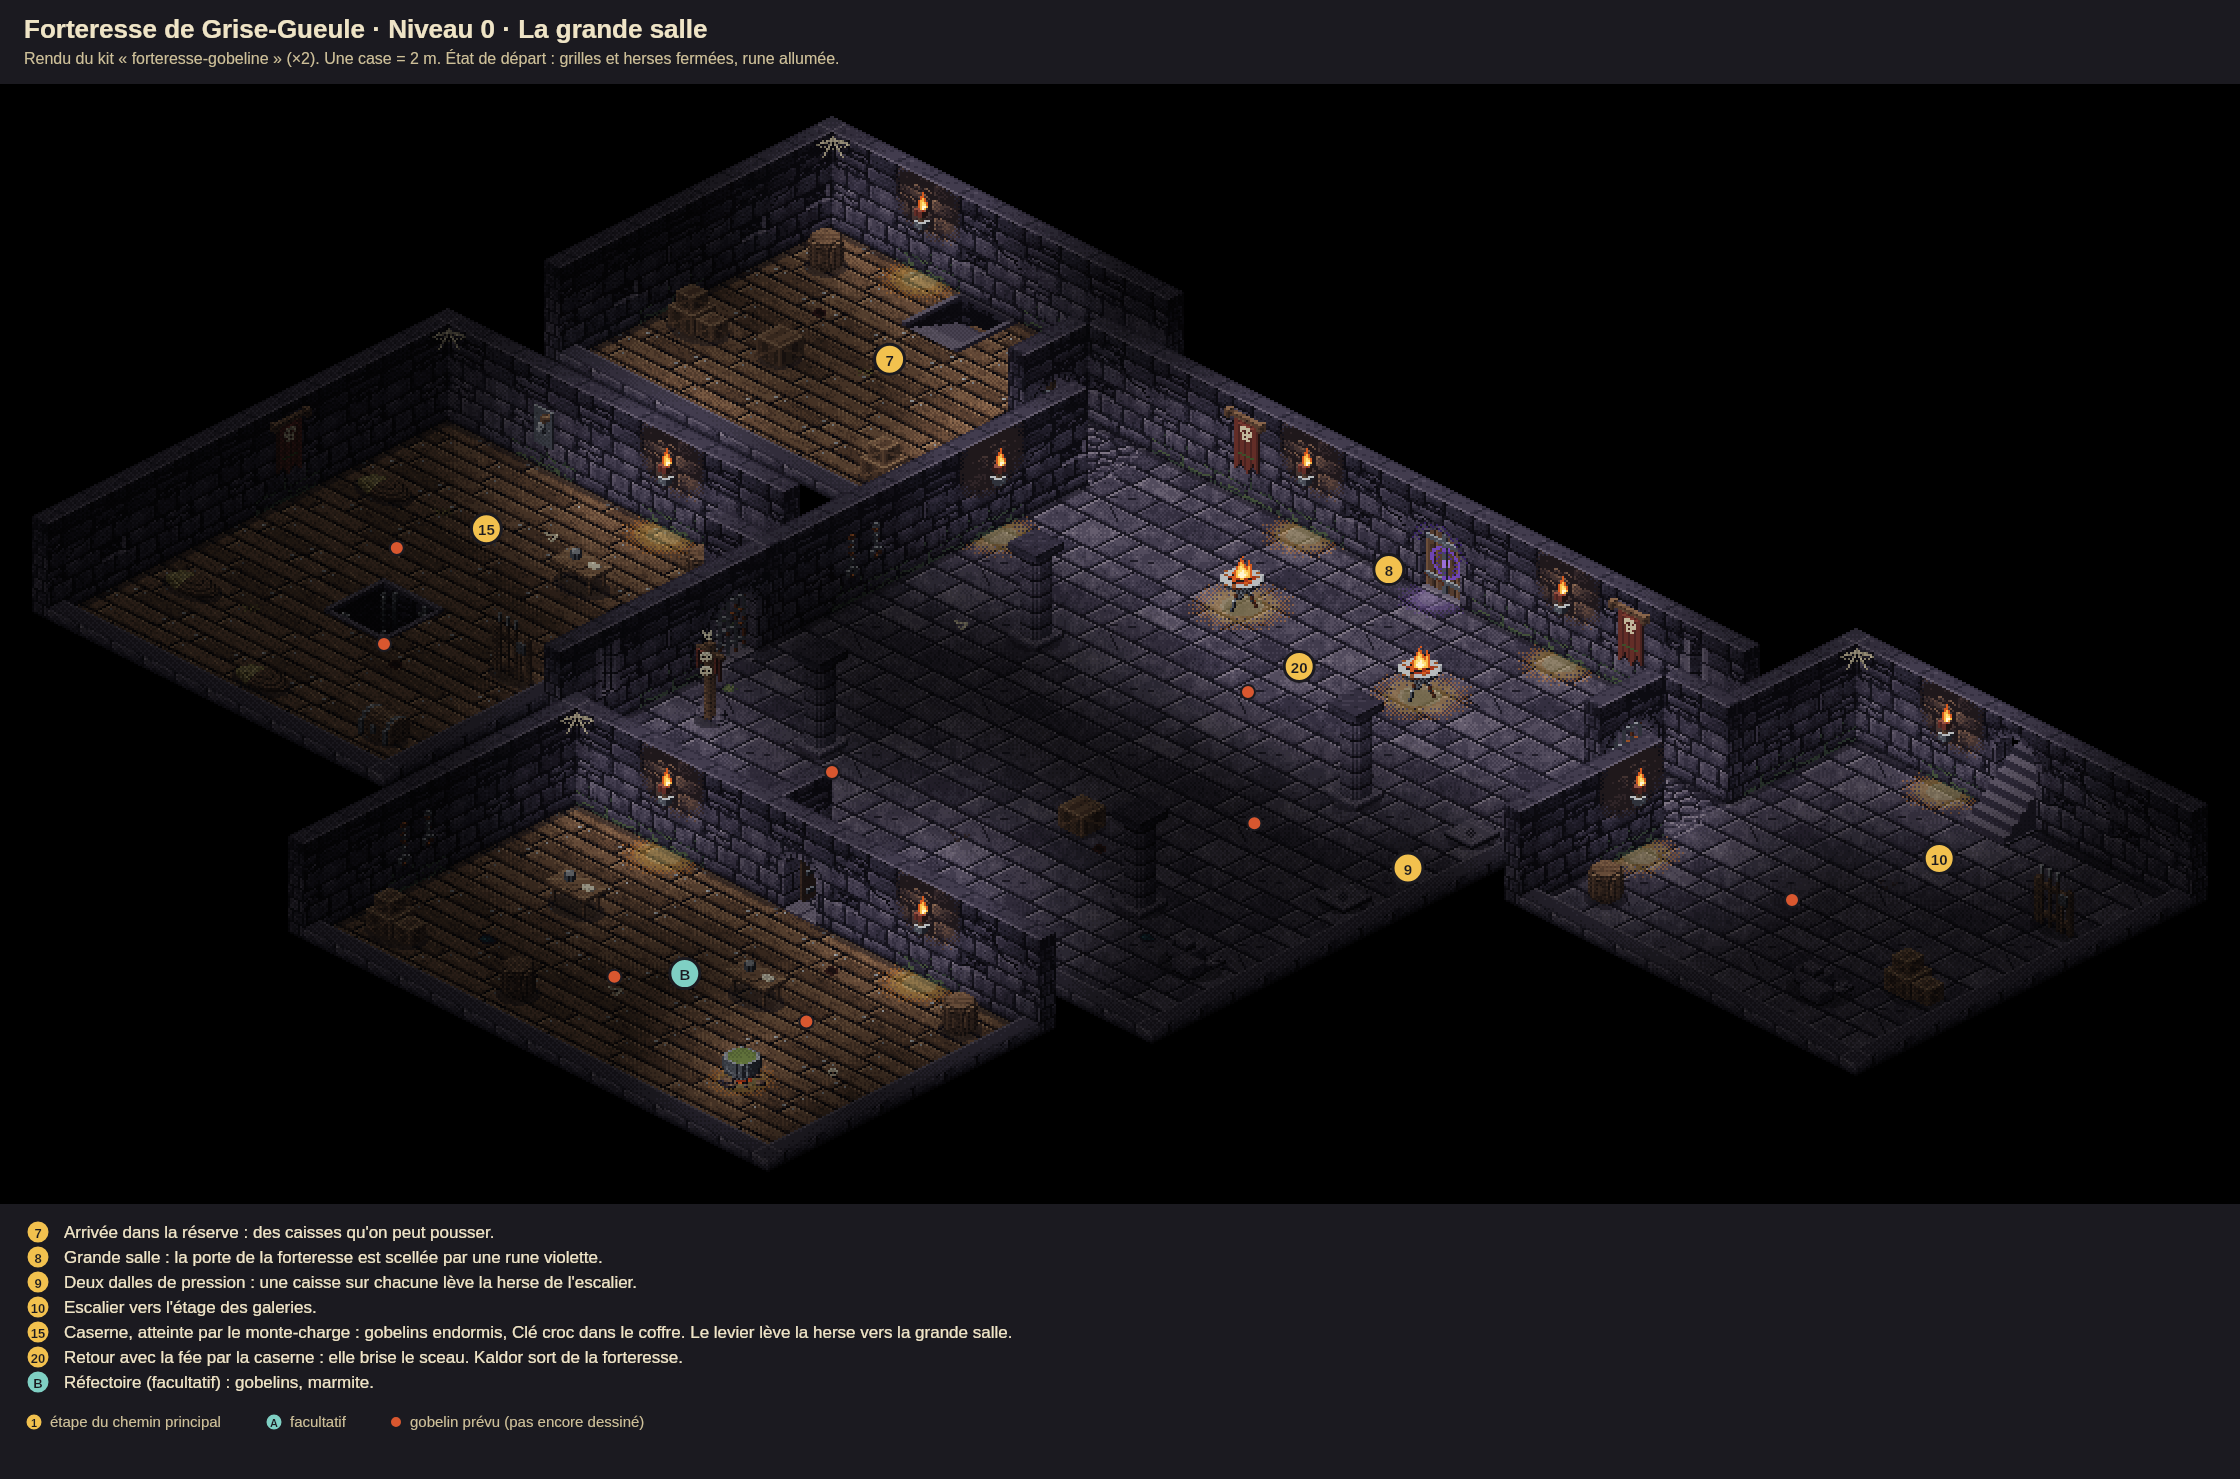
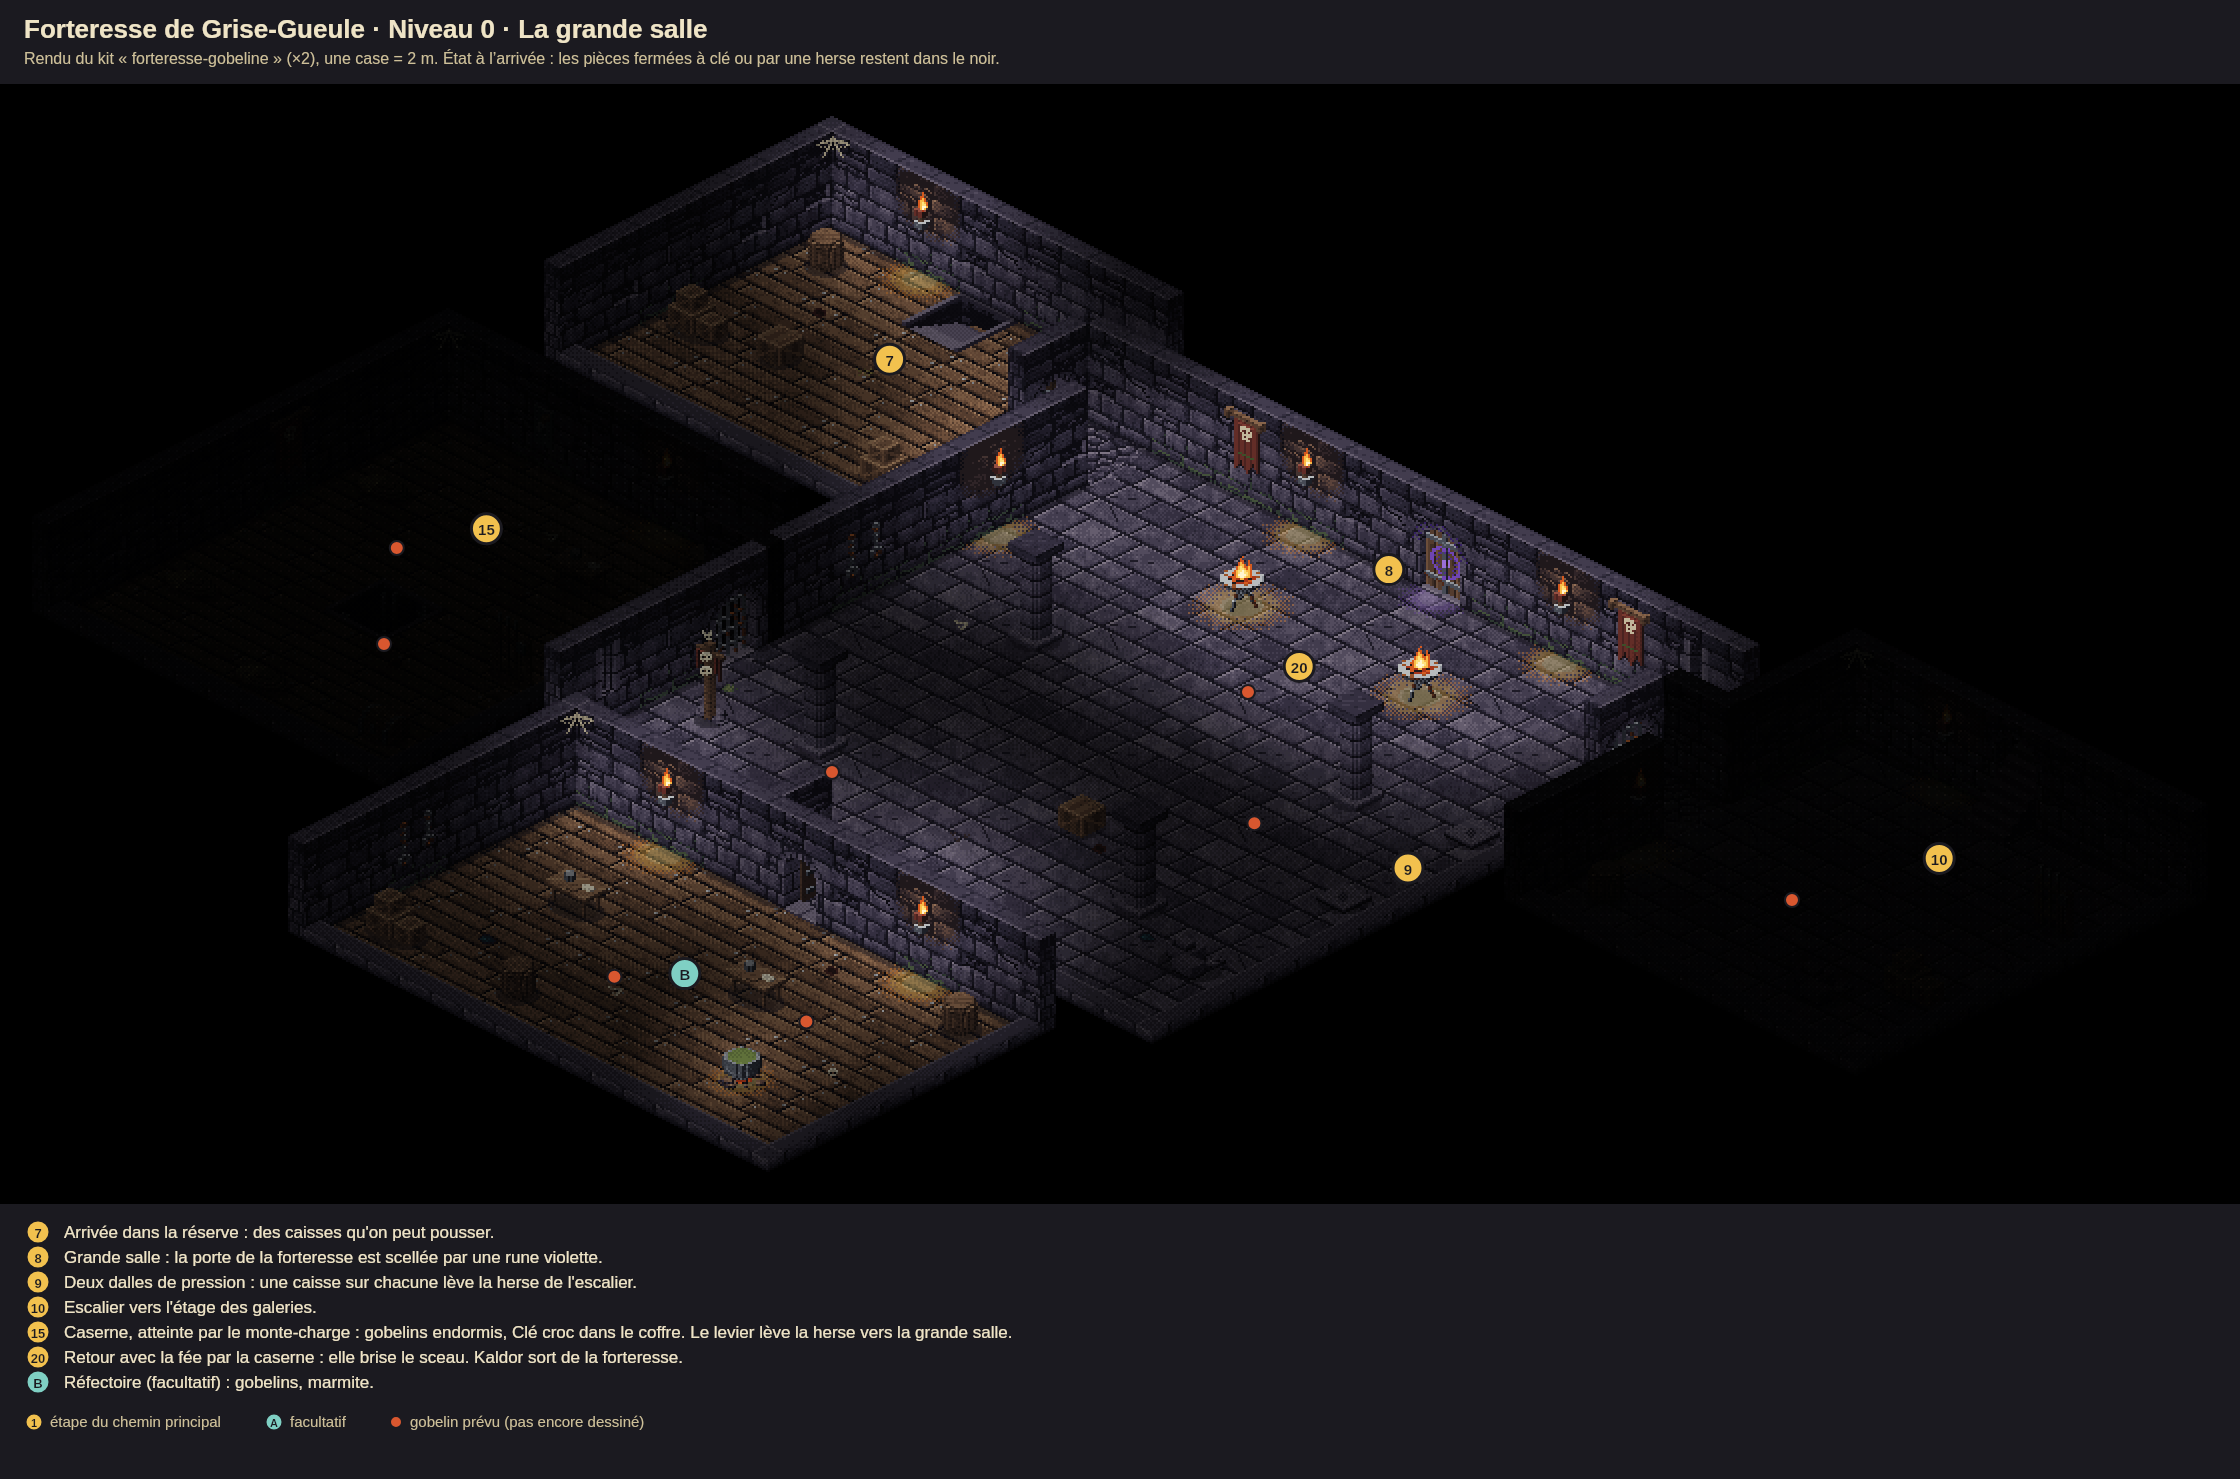
Keep locked dungeon rooms in the dark until they are opened
Cells of a floor group into rooms split by walls and closed openings
(locked doors, lowered portcullises, cell doors). Only the rooms where the
hero arrives are lit; the others are drawn at 14 % brightness, dithered,
and their torches light nothing, until a key, lever or pressure plate opens
them or the lift brings the hero in. A wall or door between a lit and a dark
room stays lit. Each mechanism now lists the edges it opens.

The floor plates show what the hero sees on arrival; the overview keeps
every room lit. A new test checks that arrival rooms are lit, that each
locked door hides a room, and that opening everything leaves only lift-only
rooms dark.

Claude-Session: https://claude.ai/code/session_018EeQxkf77jYwD1D6zZppH4

Changed region(s): [[0.6562, 0.4043, 0.9688, 0.7153], [0.0312, 0.2177, 0.375, 0.5287], [0.1562, 0.0311, 0.4375, 0.0622]]

diff --git a/art/environnement/donjons/LISEZMOI.md b/art/environnement/donjons/LISEZMOI.md
@@ -5,7 +5,19 @@ Un donjon est un intérieur complet, sur plusieurs étages, assemblé avec le ki
 - Données : `data/donjons/<id>.json` (plans, murs, objets, clés, mécanismes, repères, lieu dans le monde).
 - Planches : `donjons/<id>/`, refaites par `npm run donjon:environment`.
 - Code : `scripts/environment/donjon.cjs`. Les règles d'assemblage sont celles des intérieurs, dans `../LISEZMOI.md`, section « Intérieurs ».
-- Test : `tests/environment-donjons.test.cjs`. Il vérifie que chaque pièce existe dans le kit, que les clés ouvrent les bonnes portes, que les escaliers et le puits se répondent d'un étage à l'autre, qu'aucun objet ne bouche une ouverture, et que chaque case est accessible une fois les portes ouvertes.
+- Test : `tests/environment-donjons.test.cjs`. Il vérifie que chaque pièce existe dans le kit, que les clés ouvrent les bonnes portes, que les escaliers et le puits se répondent d'un étage à l'autre, qu'aucun objet ne bouche une ouverture, que chaque case est accessible une fois les portes ouvertes, et que les pièces fermées sont dans le noir au départ.
+
+## Pièces dans le noir
+
+Une pièce fermée par une porte verrouillée, une herse baissée ou une grille de cellule reste dans le noir tant qu'elle est fermée. On devine ses murs à 14 % de leur luminosité, en trame, mais pas son contenu. Quand un levier, une clé ou des dalles l'ouvrent, elle s'éclaire en une demi-seconde. Une pièce qu'on atteint par le monte-charge s'éclaire quand le héros y arrive.
+
+- Les pièces se calculent toutes seules : deux cases voisines font partie de la même pièce, sauf si un mur ou une ouverture fermée les sépare (`rooms()` dans `donjon.cjs`).
+- Au départ, seules les pièces d'arrivée sont visibles : celle du réveil, et celles du haut ou du bas d'un escalier.
+- Un mur ou une porte entre une pièce éclairée et une pièce dans le noir reste éclairé : on le voit depuis la pièce où l'on est.
+- Les torches d'une pièce dans le noir n'éclairent pas les pièces voisines.
+- Réglages dans le JSON, bloc `obscurite` : les ouvertures qui ferment une pièce (`fermetures`) et la luminosité d'une pièce fermée (`luminosite`). Chaque levier, dalle ou porte à clé liste dans `ouvre` les bords qu'il ouvre.
+
+Les planches d'étage montrent ce que le héros voit en arrivant. La vue d'ensemble montre toutes les pièces éclairées.
 
 ## Forteresse de Grise-Gueule
 
